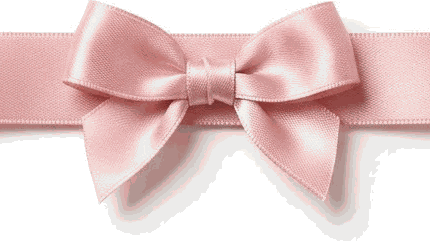
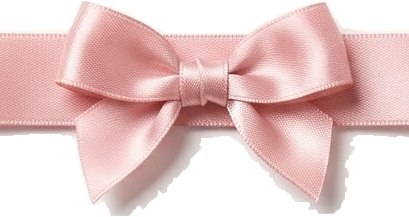
Fix caption clipping, re-key ribbon assets, custom PP chip, IG DM
Six of the notes from the phone screenshots:

- ARCHIVE caption clipping: .sac-photos needed align-items:start. The default
  stretch fought .sacp's aspect-ratio, sizing items taller than their row so they
  spilled 37px past the grid and covered the FULL ASSIGNMENT LOG line. Hit both
  photo grids (the LIT SESSIONS one was at 3.8px clearance, next to go).
- Editorial grid: rooftop scene-girl frame now leads it; grid-auto-flow:dense
  backfills the col-3 hole its span-2 width would otherwise leave (76% -> 95%).
- ribbon_bow.png / ribbon_frame_clean.png: both had 1-bit mattes with the white
  background still baked in opaque (15% and 48% of subject px near-white).
  Re-keyed off ribbon_frame_src.jpg by flooding from the border and the window on
  chroma, not brightness: the cast shadow is pink-tinted and the satin highlights
  run sat 21-32, so the flood threshold sits below them or it leaks in and bites
  chunks out of the bow. Pearls survive because pink encloses them. Now 3.7%/1.1%
  near-white with real anti-aliasing. Frame rebuilt bow-less (bow ships as
  ::before) by mirroring the plain bottom bar over it.
- PLAYBACK white boxes: border-image slice was a guessed 235 that reached past the
  ~110px ribbon into the source's white margin, and background:#fff painted under
  the transparent border. Slice now MEASURED (108 113 110 107) + background-clip.
- PP chip is now a picture-profile selector: live LED in each look's colour, PP
[…]

diff --git a/index-kawaii.html b/index-kawaii.html
@@ -161,9 +161,37 @@ h1 .sp{display:inline-block;width:.3em}
 .polaroid .cap{font-family:var(--mono);font-size:10px;letter-spacing:1.4px;color:var(--dim);text-align:center;margin-top:9px}
 .polaroid .cap b{color:var(--rose-deep)}
 .rec-badge{position:absolute;top:20px;left:20px;z-index:2;display:inline-flex;align-items:center;gap:6px;font-family:var(--mono);font-size:10px;letter-spacing:2px;color:var(--rose-deep);background:rgba(255,255,255,.85);padding:5px 10px;border-radius:999px;box-shadow:var(--shadow-sm)}
-.look-chip{position:absolute;right:24px;bottom:34px;z-index:8;font-family:var(--mono);font-size:11px;letter-spacing:1px;color:var(--ink);background:rgba(255,255,255,.86);border:1.5px solid var(--line2);border-radius:999px;padding:9px 15px;cursor:pointer;user-select:none;transition:transform .3s var(--spring),border-color .2s,box-shadow .3s}
-.look-chip:hover{transform:translateY(-3px) rotate(-1deg);border-color:var(--rose);box-shadow:var(--shadow-sm)}
-.look-chip .lbl{color:var(--rose-deep);font-weight:700}
+/* picture-profile selector: reads like the PP button on his camera, not a generic pill.
+   live LED in the current look's signature colour + PP index + six dial ticks. */
+.look-chip{position:absolute;right:24px;bottom:34px;z-index:8;display:inline-flex;align-items:center;gap:9px;
+  font-family:var(--mono);font-size:11px;letter-spacing:1px;color:var(--ink);
+  background:linear-gradient(180deg,rgba(255,255,255,.92),rgba(255,255,255,.78));
+  -webkit-backdrop-filter:blur(10px) saturate(1.25);backdrop-filter:blur(10px) saturate(1.25);
+  border:1.5px solid rgba(255,255,255,.95);border-radius:13px;padding:8px 13px;cursor:pointer;user-select:none;
+  box-shadow:0 8px 22px -9px rgba(90,40,70,.55),inset 0 1px 0 rgba(255,255,255,.95);
+  transition:transform .3s var(--spring),box-shadow .3s,border-color .2s}
+.look-chip:hover{transform:translateY(-3px);border-color:var(--rose);box-shadow:0 13px 28px -9px rgba(90,40,70,.6)}
+.look-chip:active{transform:translateY(-1px) scale(.98)}
+.look-chip:focus-visible{outline:2px solid var(--rose-deep);outline-offset:3px}
+.pp-led{width:8px;height:8px;border-radius:50%;flex:none;background:var(--pp-col,#3fd8cf);
+  box-shadow:0 0 0 2px rgba(255,255,255,.9),0 0 10px 1px var(--pp-col,#3fd8cf);animation:ppPulse 2.6s ease-in-out infinite}
+@keyframes ppPulse{0%,100%{opacity:1}50%{opacity:.42}}
+.look-chip .tag{font-weight:700;color:var(--rose-deep)}
+/* min-widths sized to the longest strings ("EDITORIAL DREAM" / "tap to cycle"): the chip is
+   right-anchored, so without them its left edge pops as the label changes on each cycle. */
+.look-chip .lbl{color:var(--ink);font-weight:700;min-width:118px;text-align:left}
+.pp-dots{display:inline-flex;gap:3px;align-items:center;flex:none}
+.pp-dots i{width:4px;height:4px;border-radius:50%;background:var(--line2);transition:background .25s,transform .25s var(--spring)}
+.pp-dots i.on{background:var(--pp-col,#3fd8cf);transform:scale(1.55)}
+.look-chip .hnt{color:var(--dim);letter-spacing:.5px;min-width:86px;text-align:left}
+body[data-look="night-city"]{--pp-col:#3fd8cf}
+body[data-look="editorial-dream"]{--pp-col:#b09ad4}
+body[data-look="darkroom"]{--pp-col:#9aa0a6}
+body[data-look="chrome"]{--pp-col:#8fb3c9}
+body[data-look="sleaze"]{--pp-col:#f2569b}
+body[data-look="super8"]{--pp-col:#e8a33d}
+@media (prefers-reduced-motion: reduce){.pp-led{animation:none}}
+@media(max-width:520px){.look-chip .hnt,.look-chip .lbl{min-width:0}.look-chip{gap:7px;padding:7px 11px}}
 @media(max-width:860px){
   .hero-in{padding-bottom:104px}
   .look-chip{right:auto;left:24px;bottom:14px}
@@ -199,7 +227,12 @@ h1 .sp{display:inline-block;width:.3em}
 .clip-label{display:flex;justify-content:space-between;align-items:baseline;gap:10px;flex-wrap:wrap;font-family:var(--mono);font-size:11px;letter-spacing:1.2px;color:var(--dim);margin-bottom:9px}
 .clip-label b{color:var(--ink);font-weight:600}
 .clip-label .r{color:var(--rose-deep)}
-.reel-frame{position:relative;border:36px solid transparent;border-image:url('assets/kawaii/ribbon_frame_clean.png') 235 round;background:#fff;box-shadow:var(--shadow);transition:transform .4s var(--spring),box-shadow .4s}
+/* slice MEASURED off ribbon_frame_clean.png (837x825, window at 107..723 / 108..714):
+   the ribbon is ~110px thick, not the 235 this once guessed -- 235 reached past the
+   ribbon into the source's white margin and drew it as a white box round the player.
+   background-clip:padding-box keeps the white backing from painting under the
+   transparent border, which was the second half of that same white box. */
+.reel-frame{position:relative;border:36px solid transparent;border-image:url('assets/kawaii/ribbon_frame_clean.png') 108 113 110 107 round;background:#fff;background-clip:padding-box;box-shadow:var(--shadow);transition:transform .4s var(--spring),box-shadow .4s}
 .reel-frame::before{content:'';position:absolute;top:-52px;left:50%;transform:translateX(-50%);width:138px;height:78px;z-index:7;background:url('assets/kawaii/ribbon_bow.png') no-repeat center / contain;pointer-events:none}
 .reel-frame:hover{transform:translateY(-6px)}
 
@@ -272,7 +305,9 @@ nav ul a.cur::after{width:100%;background:var(--amber)}
 .tape .t-label{position:absolute;top:8px;left:8px;right:8px;display:flex;justify-content:space-between;font-family:var(--mono);font-size:10px;letter-spacing:1px;color:#fff;text-shadow:0 1px 3px rgba(0,0,0,.9)}
 .tape .t-label .r{color:var(--pink)}
 .tape .t-foot{position:absolute;bottom:8px;left:8px;font-family:var(--mono);font-size:10px;letter-spacing:1px;color:var(--butter);text-shadow:0 1px 3px rgba(0,0,0,.9)}
-.sac-photos{display:grid;grid-template-columns:repeat(auto-fill,minmax(150px,1fr));gap:14px 10px;margin-top:26px;max-width:960px}
+/* align-items:start is load-bearing: the default stretch fights .sacp's aspect-ratio,
+   sizing items taller than their row so they spill past the grid and cover the caption below. */
+.sac-photos{display:grid;grid-template-columns:repeat(auto-fill,minmax(150px,1fr));gap:14px 10px;margin-top:26px;max-width:960px;align-items:start}
 .sacp{display:block;aspect-ratio:4/5;overflow:hidden;border:2px solid #fff;border-radius:14px;box-shadow:var(--shadow-sm);transition:transform .35s var(--spring)}
 .sacp:hover{transform:translateY(-5px)}
 .sacp{position:relative;overflow:visible}
@@ -283,7 +318,8 @@ nav ul a.cur::after{width:100%;background:var(--amber)}
 .sacp:nth-child(5)::before{background-image:url('steel/assets/washi_mint.png');transform:rotate(-40deg)}
 .sacp:nth-child(6)::before{background-image:url('steel/assets/washi_lilac.png');transform:rotate(-36deg)}
 .sacp img{border-radius:12px}
-.blue-grid{display:grid;grid-template-columns:repeat(3,1fr);gap:14px;margin-top:26px;max-width:1000px}
+/* dense backfills the col-3 gap the leading span-2 rooftop frame would otherwise leave open */
+.blue-grid{display:grid;grid-template-columns:repeat(3,1fr);gap:14px;margin-top:26px;max-width:1000px;grid-auto-flow:dense}
 .bluep{display:block;overflow:hidden;border:2px solid #fff;border-radius:14px;box-shadow:var(--shadow-sm);transition:transform .35s var(--spring);cursor:zoom-in;aspect-ratio:1/1}
 .bluep.bhero{grid-column:span 2;grid-row:span 2;aspect-ratio:auto}
 .bluep.bwide{grid-column:span 2;aspect-ratio:2/1.05}
@@ -388,6 +424,13 @@ footer h2{margin-bottom:18px}
 .email-stk{position:absolute;image-rendering:pixelated;z-index:3;pointer-events:none}
 .email-stk.s1{top:-14px;left:-18px;width:52px;transform:rotate(-14deg)}
 .email-stk.s2{bottom:-12px;right:-20px;width:40px;transform:rotate(12deg)}
+/* two ways to reach him: the mail pill, or a straight IG DM */
+.reach{display:flex;flex-direction:column;align-items:center;gap:14px}
+.reach-or{font-family:var(--mono);font-size:10px;letter-spacing:2px;text-transform:uppercase;color:var(--dim)}
+.dm{display:inline-flex;align-items:center;gap:9px;font-family:var(--mono);font-size:12px;font-weight:600;letter-spacing:1px;text-transform:uppercase;color:var(--rose-deep);text-decoration:none;border:1.5px solid var(--rose);border-radius:999px;padding:11px 21px;background:#fff;transition:background .25s,color .25s,transform .3s var(--spring)}
+.dm:hover{background:var(--rose);color:#fff;transform:translateY(-2px)}
+.dm svg{width:15px;height:15px;flex:none}
+.dm b{font-weight:600;opacity:.72}
 .book{margin-top:30px;padding-top:26px;border-top:2px dashed var(--line2)}
 .book-line{font-family:var(--mono);font-size:10px;letter-spacing:1.5px;color:var(--amber);margin-bottom:16px}
 .book-fine{margin-top:12px;font-family:var(--mono);font-size:11px;color:var(--dim);letter-spacing:.3px}
@@ -524,7 +567,7 @@ section::before{display:none}
   <div class="osd crosshair" aria-hidden="true"></div>
   <img class="hero-mascot hm-star" src="assets/kawaii/ribbon_bow.png" alt="" aria-hidden="true">
   <img class="hero-mascot hm-charm" src="steel/assets/charm.png" alt="" aria-hidden="true">
-  <button class="look-chip" id="lookChip" title="cycle the picture profile">PP&nbsp;<span class="lbl" id="lookName">NIGHT CITY</span>&nbsp;·&nbsp;<span id="lookHint">resize me</span></button>
+  <button class="look-chip" id="lookChip" title="cycle the picture profile" aria-label="Picture profile. Tap to cycle the grade."><span class="pp-led" aria-hidden="true"></span><span class="tag">PP<b id="lookIdx">1</b></span><span class="lbl" id="lookName">NIGHT CITY</span><span class="pp-dots" id="lookDots" aria-hidden="true"><i class="on"></i><i></i><i></i><i></i><i></i><i></i></span><span class="hnt" id="lookHint">resize me</span></button>
   <div class="wrap hero-in">
     <div class="kicker">San Antonio TX · Avail SA / Austin / Remote</div>
     <h1 id="heroName" aria-label="Giancarlo Ortiz">Giancarlo Ortiz</h1>
@@ -665,6 +708,7 @@ section::before{display:none}
 
   <div class="clip-label" style="margin-top:40px"><span><b>EDITORIAL PORTRAIT WORK</b> · TWO SUBJECTS · SHOT ACROSS SAN ANTONIO</span><span class="r">STYLED · LIT · GRADED</span></div>
   <div class="blue-grid">
+    <a class="bluep bwide" href="assets/kawaii/blue/blue_scenegirl.jpg"><img src="assets/kawaii/blue/blue_scenegirl.jpg" alt="Night portrait: green-haired subject on a downtown rooftop against the skyline, flash look, graded in-house" loading="lazy"></a>
     <a class="bluep bhero" href="assets/kawaii/blue/blue_hero_alameda.jpg"><img src="assets/kawaii/blue/blue_hero_alameda.jpg" alt="Blue session hero: model with blue-streaked hair and tattoos in front of the Alameda Theater marquee" loading="lazy"></a>
     <a class="bluep" href="assets/kawaii/blue/blue_swirl.jpg"><img src="assets/kawaii/blue/blue_swirl.jpg" alt="Blue session: lit studio portrait against a blue swirl backdrop" loading="lazy"></a>
     <a class="bluep" href="assets/kawaii/blue/blue_marquee.jpg"><img src="assets/kawaii/blue/blue_marquee.jpg" alt="Blue session: the Alameda marquee over her shoulder" loading="lazy"></a>
@@ -672,7 +716,6 @@ section::before{display:none}
     <a class="bluep" href="assets/kawaii/blue/blue_roses.jpg"><img src="assets/kawaii/blue/blue_roses.jpg" alt="Blue session: blue hair against a rose bush" loading="lazy"></a>
     <a class="bluep" href="assets/kawaii/blue/blue_moody.jpg"><img src="assets/kawaii/blue/blue_moody.jpg" alt="Blue session: night exterior, fishnet glove to face in a violet wash" loading="lazy"></a>
     <a class="bluep" href="assets/kawaii/blue/blue_handpose.jpg"><img src="assets/kawaii/blue/blue_handpose.jpg" alt="Blue session: daylight editorial pose, rings and fishnet sleeve" loading="lazy"></a>
-    <a class="bluep bwide" href="assets/kawaii/blue/blue_scenegirl.jpg"><img src="assets/kawaii/blue/blue_scenegirl.jpg" alt="Night portrait: green-haired subject on a downtown rooftop against the skyline, flash look, graded in-house" loading="lazy"></a>
   </div>
   <p class="client-credits">TWO SUBJECTS, EIGHT FRAMES · Alameda Theater to the downtown rooftops · styled, lit, and graded in-house.</p>
 </div></section>
@@ -907,7 +950,11 @@ section::before{display:none}
     <div class="polaroid" style="flex:0 1 262px"><img class="washi" src="steel/assets/washi_lilac.png" alt="" aria-hidden="true"><a class="kitzoom" href="assets/kawaii/card/card_front_full.png"><img class="cam" width="1488" height="2076" src="assets/kawaii/card/card_front_web.jpg" loading="lazy" alt="Vamppsych contact card, front: a big-eye pastel doll muse holding a Super 8 cine camera, with the moves Final Cut and Last Light"></a><div class="cap"><b>FRONT</b> · the muse · tap to open</div></div>
     <div class="polaroid" style="flex:0 1 262px"><img class="washi" src="steel/assets/washi_pink.png" alt="" aria-hidden="true"><a class="kitzoom" href="assets/kawaii/card/card_back_full.png"><img class="cam" width="1488" height="2076" src="assets/kawaii/card/card_back_web.jpg" loading="lazy" alt="Vamppsych contact card, back: a scannable QR to this site, with roles and social handles"></a><div class="cap"><b>BACK</b> · scan to reach me</div></div>
   </div>
-  <span class="email-wrap"><img class="email-stk s1" src="assets/kawaii/f2u/bow_pink.png" alt="" aria-hidden="true"><img class="email-stk s2" src="assets/kawaii/f2u/bow_blue.png" alt="" aria-hidden="true"><a class="email" id="magnetMail" href="mailto:carlo72400@gmail.com">carlo72400@gmail.com</a></span>
+  <div class="reach">
+    <span class="email-wrap"><img class="email-stk s1" src="assets/kawaii/f2u/bow_pink.png" alt="" aria-hidden="true"><img class="email-stk s2" src="assets/kawaii/f2u/bow_blue.png" alt="" aria-hidden="true"><a class="email" id="magnetMail" href="mailto:carlo72400@gmail.com">carlo72400@gmail.com</a></span>
+    <div class="reach-or">or</div>
+    <a class="dm" href="https://ig.me/m/vamppsych" target="_blank" rel="noopener" aria-label="Send a direct message on Instagram to @vamppsych"><svg viewBox="0 0 24 24" fill="none" stroke="currentColor" stroke-width="2" stroke-linecap="round" aria-hidden="true"><rect x="2" y="2" width="20" height="20" rx="5.5"/><circle cx="12" cy="12" r="4.2"/><circle cx="17.6" cy="6.4" r="1.25" fill="currentColor" stroke="none"/></svg>DM me on Instagram <b>@vamppsych</b></a>
+  </div>
   <div class="book">
     <div class="book-line">BOOKING: EVENT COVERAGE · COMMERCIALS · SHORT-FORM PACKAGES · EDIT + COLOR · SAME-NIGHT DELIVERY AVAILABLE</div>
     <a class="btn solid" href="mailto:carlo72400@gmail.com?subject=Booking%20request%20-%20%5Bproject%20name%5D&body=Project%3A%0ADate(s)%3A%0ALocation%3A%0AWhat%20you%20need%20(shoot%20%2F%20edit%20%2F%20both)%3A%0ADeliverables%20(runtime%2C%20formats%2C%20platforms)%3A%0ABudget%20range%3A%0ADeadline%3A">Request work</a>
@@ -991,6 +1038,8 @@ const LOOKS = [
 const chip = document.getElementById('lookChip');
 const nameEl = document.getElementById('lookName');
 const hintEl = document.getElementById('lookHint');
+const idxEl = document.getElementById('lookIdx');
+const dots = [...document.querySelectorAll('#lookDots i')];
 let manual = -1;
 function bandFromWidth(w){
   if(w>=1500) return 0;
@@ -1003,6 +1052,9 @@ function bandFromWidth(w){
 function applyLook(i,src){
   document.body.dataset.look = LOOKS[i][0];
   nameEl.textContent = LOOKS[i][1];
+  idxEl.textContent = i+1;
+  dots.forEach((d,n)=>d.classList.toggle('on', n===i));
+  chip.setAttribute('aria-label','Picture profile '+(i+1)+' of '+LOOKS.length+': '+LOOKS[i][1]+'. Tap to cycle the grade.');
   hintEl.textContent = src==='chip' ? 'tap to cycle' : (matchMedia('(pointer:coarse)').matches ? 'tap to cycle' : 'resize me');
 }
 applyLook(bandFromWidth(innerWidth));

diff --git a/index.html b/index.html
@@ -161,9 +161,37 @@ h1 .sp{display:inline-block;width:.3em}
 .polaroid .cap{font-family:var(--mono);font-size:10px;letter-spacing:1.4px;color:var(--dim);text-align:center;margin-top:9px}
 .polaroid .cap b{color:var(--rose-deep)}
 .rec-badge{position:absolute;top:20px;left:20px;z-index:2;display:inline-flex;align-items:center;gap:6px;font-family:var(--mono);font-size:10px;letter-spacing:2px;color:var(--rose-deep);background:rgba(255,255,255,.85);padding:5px 10px;border-radius:999px;box-shadow:var(--shadow-sm)}
-.look-chip{position:absolute;right:24px;bottom:34px;z-index:8;font-family:var(--mono);font-size:11px;letter-spacing:1px;color:var(--ink);background:rgba(255,255,255,.86);border:1.5px solid var(--line2);border-radius:999px;padding:9px 15px;cursor:pointer;user-select:none;transition:transform .3s var(--spring),border-color .2s,box-shadow .3s}
-.look-chip:hover{transform:translateY(-3px) rotate(-1deg);border-color:var(--rose);box-shadow:var(--shadow-sm)}
-.look-chip .lbl{color:var(--rose-deep);font-weight:700}
+/* picture-profile selector: reads like the PP button on his camera, not a generic pill.
+   live LED in the current look's signature colour + PP index + six dial ticks. */
+.look-chip{position:absolute;right:24px;bottom:34px;z-index:8;display:inline-flex;align-items:center;gap:9px;
+  font-family:var(--mono);font-size:11px;letter-spacing:1px;color:var(--ink);
+  background:linear-gradient(180deg,rgba(255,255,255,.92),rgba(255,255,255,.78));
+  -webkit-backdrop-filter:blur(10px) saturate(1.25);backdrop-filter:blur(10px) saturate(1.25);
+  border:1.5px solid rgba(255,255,255,.95);border-radius:13px;padding:8px 13px;cursor:pointer;user-select:none;
+  box-shadow:0 8px 22px -9px rgba(90,40,70,.55),inset 0 1px 0 rgba(255,255,255,.95);
+  transition:transform .3s var(--spring),box-shadow .3s,border-color .2s}
+.look-chip:hover{transform:translateY(-3px);border-color:var(--rose);box-shadow:0 13px 28px -9px rgba(90,40,70,.6)}
+.look-chip:active{transform:translateY(-1px) scale(.98)}
+.look-chip:focus-visible{outline:2px solid var(--rose-deep);outline-offset:3px}
+.pp-led{width:8px;height:8px;border-radius:50%;flex:none;background:var(--pp-col,#3fd8cf);
+  box-shadow:0 0 0 2px rgba(255,255,255,.9),0 0 10px 1px var(--pp-col,#3fd8cf);animation:ppPulse 2.6s ease-in-out infinite}
+@keyframes ppPulse{0%,100%{opacity:1}50%{opacity:.42}}
+.look-chip .tag{font-weight:700;color:var(--rose-deep)}
+/* min-widths sized to the longest strings ("EDITORIAL DREAM" / "tap to cycle"): the chip is
+   right-anchored, so without them its left edge pops as the label changes on each cycle. */
+.look-chip .lbl{color:var(--ink);font-weight:700;min-width:118px;text-align:left}
+.pp-dots{display:inline-flex;gap:3px;align-items:center;flex:none}
+.pp-dots i{width:4px;height:4px;border-radius:50%;background:var(--line2);transition:background .25s,transform .25s var(--spring)}
+.pp-dots i.on{background:var(--pp-col,#3fd8cf);transform:scale(1.55)}
+.look-chip .hnt{color:var(--dim);letter-spacing:.5px;min-width:86px;text-align:left}
+body[data-look="night-city"]{--pp-col:#3fd8cf}
+body[data-look="editorial-dream"]{--pp-col:#b09ad4}
+body[data-look="darkroom"]{--pp-col:#9aa0a6}
+body[data-look="chrome"]{--pp-col:#8fb3c9}
+body[data-look="sleaze"]{--pp-col:#f2569b}
+body[data-look="super8"]{--pp-col:#e8a33d}
+@media (prefers-reduced-motion: reduce){.pp-led{animation:none}}
+@media(max-width:520px){.look-chip .hnt,.look-chip .lbl{min-width:0}.look-chip{gap:7px;padding:7px 11px}}
 @media(max-width:860px){
   .hero-in{padding-bottom:104px}
   .look-chip{right:auto;left:24px;bottom:14px}
@@ -199,7 +227,12 @@ h1 .sp{display:inline-block;width:.3em}
 .clip-label{display:flex;justify-content:space-between;align-items:baseline;gap:10px;flex-wrap:wrap;font-family:var(--mono);font-size:11px;letter-spacing:1.2px;color:var(--dim);margin-bottom:9px}
 .clip-label b{color:var(--ink);font-weight:600}
 .clip-label .r{color:var(--rose-deep)}
-.reel-frame{position:relative;border:36px solid transparent;border-image:url('assets/kawaii/ribbon_frame_clean.png') 235 round;background:#fff;box-shadow:var(--shadow);transition:transform .4s var(--spring),box-shadow .4s}
+/* slice MEASURED off ribbon_frame_clean.png (837x825, window at 107..723 / 108..714):
+   the ribbon is ~110px thick, not the 235 this once guessed -- 235 reached past the
+   ribbon into the source's white margin and drew it as a white box round the player.
+   background-clip:padding-box keeps the white backing from painting under the
+   transparent border, which was the second half of that same white box. */
+.reel-frame{position:relative;border:36px solid transparent;border-image:url('assets/kawaii/ribbon_frame_clean.png') 108 113 110 107 round;background:#fff;background-clip:padding-box;box-shadow:var(--shadow);transition:transform .4s var(--spring),box-shadow .4s}
 .reel-frame::before{content:'';position:absolute;top:-52px;left:50%;transform:translateX(-50%);width:138px;height:78px;z-index:7;background:url('assets/kawaii/ribbon_bow.png') no-repeat center / contain;pointer-events:none}
 .reel-frame:hover{transform:translateY(-6px)}
 
@@ -272,7 +305,9 @@ nav ul a.cur::after{width:100%;background:var(--amber)}
 .tape .t-label{position:absolute;top:8px;left:8px;right:8px;display:flex;justify-content:space-between;font-family:var(--mono);font-size:10px;letter-spacing:1px;color:#fff;text-shadow:0 1px 3px rgba(0,0,0,.9)}
 .tape .t-label .r{color:var(--pink)}
 .tape .t-foot{position:absolute;bottom:8px;left:8px;font-family:var(--mono);font-size:10px;letter-spacing:1px;color:var(--butter);text-shadow:0 1px 3px rgba(0,0,0,.9)}
-.sac-photos{display:grid;grid-template-columns:repeat(auto-fill,minmax(150px,1fr));gap:14px 10px;margin-top:26px;max-width:960px}
+/* align-items:start is load-bearing: the default stretch fights .sacp's aspect-ratio,
+   sizing items taller than their row so they spill past the grid and cover the caption below. */
+.sac-photos{display:grid;grid-template-columns:repeat(auto-fill,minmax(150px,1fr));gap:14px 10px;margin-top:26px;max-width:960px;align-items:start}
 .sacp{display:block;aspect-ratio:4/5;overflow:hidden;border:2px solid #fff;border-radius:14px;box-shadow:var(--shadow-sm);transition:transform .35s var(--spring)}
 .sacp:hover{transform:translateY(-5px)}
 .sacp{position:relative;overflow:visible}
@@ -283,7 +318,8 @@ nav ul a.cur::after{width:100%;background:var(--amber)}
 .sacp:nth-child(5)::before{background-image:url('steel/assets/washi_mint.png');transform:rotate(-40deg)}
 .sacp:nth-child(6)::before{background-image:url('steel/assets/washi_lilac.png');transform:rotate(-36deg)}
 .sacp img{border-radius:12px}
-.blue-grid{display:grid;grid-template-columns:repeat(3,1fr);gap:14px;margin-top:26px;max-width:1000px}
+/* dense backfills the col-3 gap the leading span-2 rooftop frame would otherwise leave open */
+.blue-grid{display:grid;grid-template-columns:repeat(3,1fr);gap:14px;margin-top:26px;max-width:1000px;grid-auto-flow:dense}
 .bluep{display:block;overflow:hidden;border:2px solid #fff;border-radius:14px;box-shadow:var(--shadow-sm);transition:transform .35s var(--spring);cursor:zoom-in;aspect-ratio:1/1}
 .bluep.bhero{grid-column:span 2;grid-row:span 2;aspect-ratio:auto}
 .bluep.bwide{grid-column:span 2;aspect-ratio:2/1.05}
@@ -388,6 +424,13 @@ footer h2{margin-bottom:18px}
 .email-stk{position:absolute;image-rendering:pixelated;z-index:3;pointer-events:none}
 .email-stk.s1{top:-14px;left:-18px;width:52px;transform:rotate(-14deg)}
 .email-stk.s2{bottom:-12px;right:-20px;width:40px;transform:rotate(12deg)}
+/* two ways to reach him: the mail pill, or a straight IG DM */
+.reach{display:flex;flex-direction:column;align-items:center;gap:14px}
+.reach-or{font-family:var(--mono);font-size:10px;letter-spacing:2px;text-transform:uppercase;color:var(--dim)}
+.dm{display:inline-flex;align-items:center;gap:9px;font-family:var(--mono);font-size:12px;font-weight:600;letter-spacing:1px;text-transform:uppercase;color:var(--rose-deep);text-decoration:none;border:1.5px solid var(--rose);border-radius:999px;padding:11px 21px;background:#fff;transition:background .25s,color .25s,transform .3s var(--spring)}
+.dm:hover{background:var(--rose);color:#fff;transform:translateY(-2px)}
+.dm svg{width:15px;height:15px;flex:none}
+.dm b{font-weight:600;opacity:.72}
 .book{margin-top:30px;padding-top:26px;border-top:2px dashed var(--line2)}
 .book-line{font-family:var(--mono);font-size:10px;letter-spacing:1.5px;color:var(--amber);margin-bottom:16px}
 .book-fine{margin-top:12px;font-family:var(--mono);font-size:11px;color:var(--dim);letter-spacing:.3px}
@@ -524,7 +567,7 @@ section::before{display:none}
   <div class="osd crosshair" aria-hidden="true"></div>
   <img class="hero-mascot hm-star" src="assets/kawaii/ribbon_bow.png" alt="" aria-hidden="true">
   <img class="hero-mascot hm-charm" src="steel/assets/charm.png" alt="" aria-hidden="true">
-  <button class="look-chip" id="lookChip" title="cycle the picture profile">PP&nbsp;<span class="lbl" id="lookName">NIGHT CITY</span>&nbsp;·&nbsp;<span id="lookHint">resize me</span></button>
+  <button class="look-chip" id="lookChip" title="cycle the picture profile" aria-label="Picture profile. Tap to cycle the grade."><span class="pp-led" aria-hidden="true"></span><span class="tag">PP<b id="lookIdx">1</b></span><span class="lbl" id="lookName">NIGHT CITY</span><span class="pp-dots" id="lookDots" aria-hidden="true"><i class="on"></i><i></i><i></i><i></i><i></i><i></i></span><span class="hnt" id="lookHint">resize me</span></button>
   <div class="wrap hero-in">
     <div class="kicker">San Antonio TX · Avail SA / Austin / Remote</div>
     <h1 id="heroName" aria-label="Giancarlo Ortiz">Giancarlo Ortiz</h1>
@@ -665,6 +708,7 @@ section::before{display:none}
 
   <div class="clip-label" style="margin-top:40px"><span><b>EDITORIAL PORTRAIT WORK</b> · TWO SUBJECTS · SHOT ACROSS SAN ANTONIO</span><span class="r">STYLED · LIT · GRADED</span></div>
   <div class="blue-grid">
+    <a class="bluep bwide" href="assets/kawaii/blue/blue_scenegirl.jpg"><img src="assets/kawaii/blue/blue_scenegirl.jpg" alt="Night portrait: green-haired subject on a downtown rooftop against the skyline, flash look, graded in-house" loading="lazy"></a>
     <a class="bluep bhero" href="assets/kawaii/blue/blue_hero_alameda.jpg"><img src="assets/kawaii/blue/blue_hero_alameda.jpg" alt="Blue session hero: model with blue-streaked hair and tattoos in front of the Alameda Theater marquee" loading="lazy"></a>
     <a class="bluep" href="assets/kawaii/blue/blue_swirl.jpg"><img src="assets/kawaii/blue/blue_swirl.jpg" alt="Blue session: lit studio portrait against a blue swirl backdrop" loading="lazy"></a>
     <a class="bluep" href="assets/kawaii/blue/blue_marquee.jpg"><img src="assets/kawaii/blue/blue_marquee.jpg" alt="Blue session: the Alameda marquee over her shoulder" loading="lazy"></a>
@@ -672,7 +716,6 @@ section::before{display:none}
     <a class="bluep" href="assets/kawaii/blue/blue_roses.jpg"><img src="assets/kawaii/blue/blue_roses.jpg" alt="Blue session: blue hair against a rose bush" loading="lazy"></a>
     <a class="bluep" href="assets/kawaii/blue/blue_moody.jpg"><img src="assets/kawaii/blue/blue_moody.jpg" alt="Blue session: night exterior, fishnet glove to face in a violet wash" loading="lazy"></a>
     <a class="bluep" href="assets/kawaii/blue/blue_handpose.jpg"><img src="assets/kawaii/blue/blue_handpose.jpg" alt="Blue session: daylight editorial pose, rings and fishnet sleeve" loading="lazy"></a>
-    <a class="bluep bwide" href="assets/kawaii/blue/blue_scenegirl.jpg"><img src="assets/kawaii/blue/blue_scenegirl.jpg" alt="Night portrait: green-haired subject on a downtown rooftop against the skyline, flash look, graded in-house" loading="lazy"></a>
   </div>
   <p class="client-credits">TWO SUBJECTS, EIGHT FRAMES · Alameda Theater to the downtown rooftops · styled, lit, and graded in-house.</p>
 </div></section>
@@ -907,7 +950,11 @@ section::before{display:none}
     <div class="polaroid" style="flex:0 1 262px"><img class="washi" src="steel/assets/washi_lilac.png" alt="" aria-hidden="true"><a class="kitzoom" href="assets/kawaii/card/card_front_full.png"><img class="cam" width="1488" height="2076" src="assets/kawaii/card/card_front_web.jpg" loading="lazy" alt="Vamppsych contact card, front: a big-eye pastel doll muse holding a Super 8 cine camera, with the moves Final Cut and Last Light"></a><div class="cap"><b>FRONT</b> · the muse · tap to open</div></div>
     <div class="polaroid" style="flex:0 1 262px"><img class="washi" src="steel/assets/washi_pink.png" alt="" aria-hidden="true"><a class="kitzoom" href="assets/kawaii/card/card_back_full.png"><img class="cam" width="1488" height="2076" src="assets/kawaii/card/card_back_web.jpg" loading="lazy" alt="Vamppsych contact card, back: a scannable QR to this site, with roles and social handles"></a><div class="cap"><b>BACK</b> · scan to reach me</div></div>
   </div>
-  <span class="email-wrap"><img class="email-stk s1" src="assets/kawaii/f2u/bow_pink.png" alt="" aria-hidden="true"><img class="email-stk s2" src="assets/kawaii/f2u/bow_blue.png" alt="" aria-hidden="true"><a class="email" id="magnetMail" href="mailto:carlo72400@gmail.com">carlo72400@gmail.com</a></span>
+  <div class="reach">
+    <span class="email-wrap"><img class="email-stk s1" src="assets/kawaii/f2u/bow_pink.png" alt="" aria-hidden="true"><img class="email-stk s2" src="assets/kawaii/f2u/bow_blue.png" alt="" aria-hidden="true"><a class="email" id="magnetMail" href="mailto:carlo72400@gmail.com">carlo72400@gmail.com</a></span>
+    <div class="reach-or">or</div>
+    <a class="dm" href="https://ig.me/m/vamppsych" target="_blank" rel="noopener" aria-label="Send a direct message on Instagram to @vamppsych"><svg viewBox="0 0 24 24" fill="none" stroke="currentColor" stroke-width="2" stroke-linecap="round" aria-hidden="true"><rect x="2" y="2" width="20" height="20" rx="5.5"/><circle cx="12" cy="12" r="4.2"/><circle cx="17.6" cy="6.4" r="1.25" fill="currentColor" stroke="none"/></svg>DM me on Instagram <b>@vamppsych</b></a>
+  </div>
   <div class="book">
     <div class="book-line">BOOKING: EVENT COVERAGE · COMMERCIALS · SHORT-FORM PACKAGES · EDIT + COLOR · SAME-NIGHT DELIVERY AVAILABLE</div>
     <a class="btn solid" href="mailto:carlo72400@gmail.com?subject=Booking%20request%20-%20%5Bproject%20name%5D&body=Project%3A%0ADate(s)%3A%0ALocation%3A%0AWhat%20you%20need%20(shoot%20%2F%20edit%20%2F%20both)%3A%0ADeliverables%20(runtime%2C%20formats%2C%20platforms)%3A%0ABudget%20range%3A%0ADeadline%3A">Request work</a>
@@ -991,6 +1038,8 @@ const LOOKS = [
 const chip = document.getElementById('lookChip');
 const nameEl = document.getElementById('lookName');
 const hintEl = document.getElementById('lookHint');
+const idxEl = document.getElementById('lookIdx');
+const dots = [...document.querySelectorAll('#lookDots i')];
 let manual = -1;
 function bandFromWidth(w){
   if(w>=1500) return 0;
@@ -1003,6 +1052,9 @@ function bandFromWidth(w){
 function applyLook(i,src){
   document.body.dataset.look = LOOKS[i][0];
   nameEl.textContent = LOOKS[i][1];
+  idxEl.textContent = i+1;
+  dots.forEach((d,n)=>d.classList.toggle('on', n===i));
+  chip.setAttribute('aria-label','Picture profile '+(i+1)+' of '+LOOKS.length+': '+LOOKS[i][1]+'. Tap to cycle the grade.');
   hintEl.textContent = src==='chip' ? 'tap to cycle' : (matchMedia('(pointer:coarse)').matches ? 'tap to cycle' : 'resize me');
 }
 applyLook(bandFromWidth(innerWidth));
